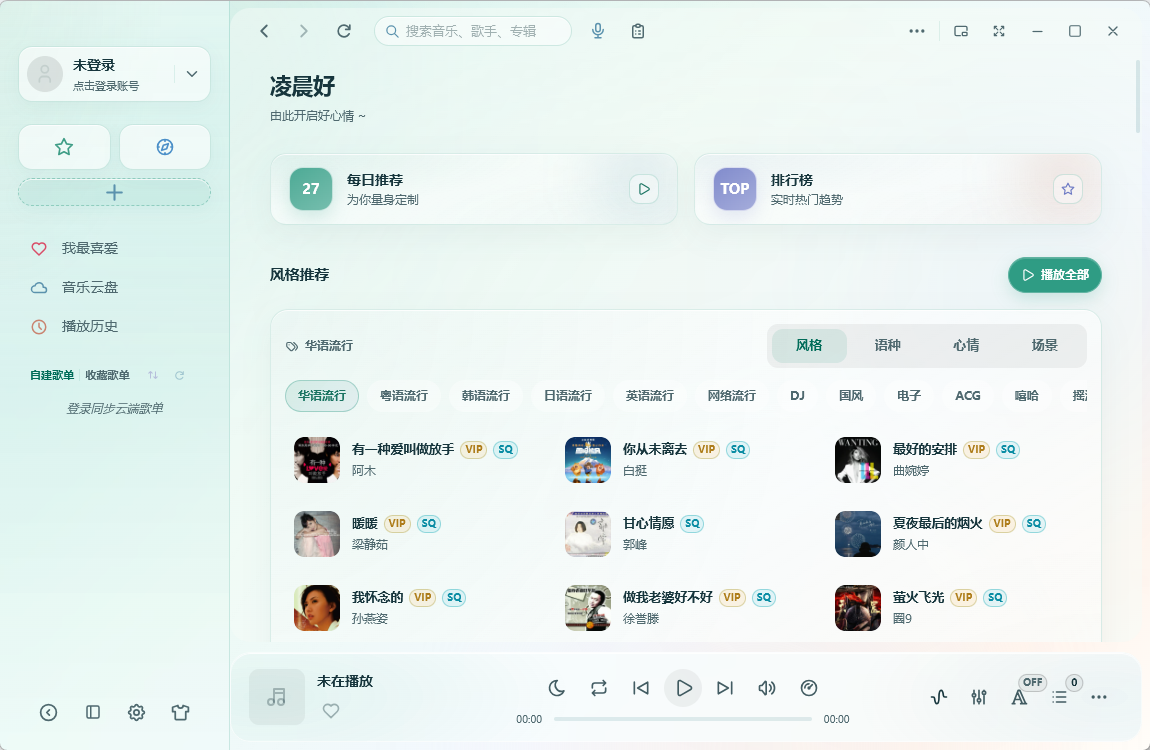
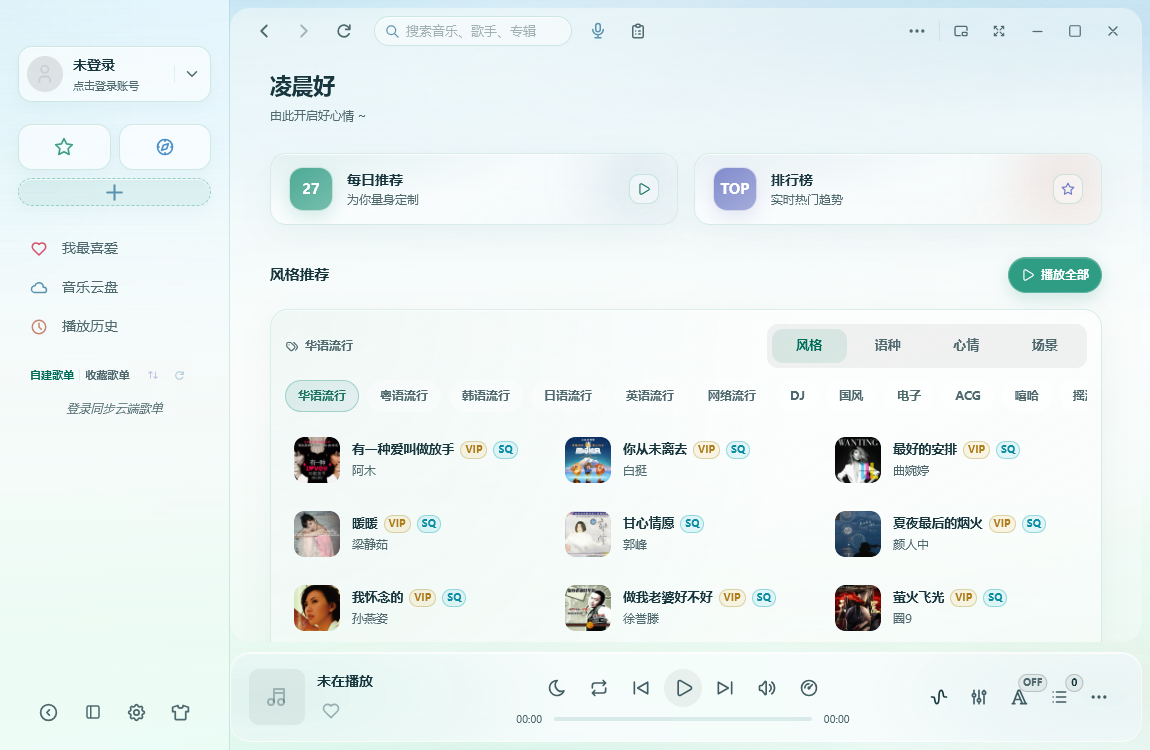
feat: 发布 1.6.0 呼吸感纵向色场背景

diff --git a/style.css b/style.css
@@ -154,35 +154,36 @@ html.ql-theme-active ::-webkit-scrollbar-thumb:active {
 /* ── 连续背景 ─────────────────────────────────────────────────────────── */
 
 html.ql-theme-active .theme-background-base {
-  background-color: #edf9f8 !important;
+  background-color: #f3faf7 !important;
   background-image:
-    radial-gradient(82% 82% at 2% 0%, rgba(116, 220, 215, 0.2) 0%, transparent 68%),
-    radial-gradient(68% 74% at 98% 4%, rgba(163, 208, 246, 0.22) 0%, transparent 70%),
-    linear-gradient(135deg, #e3f6f4 0%, #edf9f8 36%, #f3f8fd 70%, #fcfdff 100%) !important;
+    radial-gradient(ellipse 68% 78% at 3% 0%, rgba(120, 207, 195, 0.16) 0%, rgba(255, 255, 255, 0.18) 36%, transparent 74%),
+    radial-gradient(ellipse 64% 72% at 98% 3%, rgba(158, 191, 237, 0.17) 0%, rgba(255, 255, 255, 0.14) 40%, transparent 76%),
+    linear-gradient(128deg, #eaf8f2 0%, #f4fbf7 38%, #f2f7fc 72%, #fff7f1 100%) !important;
   background-repeat: no-repeat !important;
   background-size: cover !important;
 }
 
 html.ql-theme-active[data-ql-tint='mint'] .theme-background-base {
-  background-color: #edf8f2 !important;
+  background-color: #f3fbf7 !important;
   background-image:
-    radial-gradient(42% 54% at 4% 5%, rgba(91, 211, 172, 0.31) 0%, transparent 66%),
-    radial-gradient(38% 44% at 53% -6%, rgba(112, 177, 226, 0.21) 0%, transparent 68%),
-    radial-gradient(43% 48% at 101% 13%, rgba(245, 191, 158, 0.2) 0%, transparent 70%),
-    radial-gradient(42% 48% at 84% 82%, rgba(173, 157, 231, 0.16) 0%, transparent 70%),
-    radial-gradient(58% 60% at 19% 103%, rgba(118, 222, 195, 0.24) 0%, transparent 71%),
-    linear-gradient(134deg, #e4f7ee 0%, #f0fbf6 38%, #f4f9fd 73%, #fefbf7 100%) !important;
+    radial-gradient(ellipse 155% 32% at 16% -10%, rgba(85, 188, 236, 0.26) 0%, rgba(255, 255, 255, 0.21) 43%, transparent 82%),
+    radial-gradient(ellipse 118% 26% at 96% 4%, rgba(143, 180, 232, 0.19) 0%, rgba(255, 255, 255, 0.17) 45%, transparent 84%),
+    radial-gradient(ellipse 146% 34% at 33% 110%, rgba(96, 225, 183, 0.28) 0%, rgba(255, 255, 255, 0.16) 44%, transparent 84%),
+    radial-gradient(ellipse 96% 24% at 102% 92%, rgba(245, 188, 161, 0.11) 0%, rgba(255, 255, 255, 0.12) 42%, transparent 86%),
+    radial-gradient(ellipse 138% 32% at 55% 47%, rgba(255, 255, 255, 0.3) 0%, rgba(255, 255, 255, 0.11) 52%, transparent 88%),
+    linear-gradient(177deg, #c6e8f8 0%, #d9f0fb 12%, #edf8fc 30%, #fbfdfd 48%, #f4fcf8 64%, #e6f9ef 82%, #eafbf3 100%) !important;
 }
 
 html.ql-theme-active[data-ql-tint='sky'] .theme-background-base {
-  background-color: #edf4ff !important;
+  background-color: #f3f8ff !important;
   background-image:
-    radial-gradient(43% 55% at 2% 2%, rgba(92, 151, 242, 0.3) 0%, transparent 66%),
-    radial-gradient(39% 46% at 48% -7%, rgba(122, 211, 219, 0.2) 0%, transparent 68%),
-    radial-gradient(44% 49% at 102% 15%, rgba(218, 194, 242, 0.22) 0%, transparent 70%),
-    radial-gradient(42% 48% at 87% 86%, rgba(255, 199, 171, 0.18) 0%, transparent 70%),
-    radial-gradient(58% 60% at 23% 104%, rgba(134, 172, 244, 0.23) 0%, transparent 71%),
-    linear-gradient(134deg, #e1edff 0%, #edf5ff 39%, #f5f8ff 73%, #fffaf7 100%) !important;
+    radial-gradient(ellipse 155% 32% at 14% -10%, rgba(94, 156, 234, 0.28) 0%, rgba(255, 255, 255, 0.2) 43%, transparent 82%),
+    radial-gradient(ellipse 122% 27% at 95% 2%, rgba(126, 202, 238, 0.2) 0%, rgba(255, 255, 255, 0.17) 45%, transparent 84%),
+    radial-gradient(ellipse 146% 34% at 31% 110%, rgba(125, 158, 232, 0.22) 0%, rgba(255, 255, 255, 0.17) 44%, transparent 84%),
+    radial-gradient(ellipse 102% 25% at 103% 90%, rgba(199, 176, 236, 0.16) 0%, rgba(255, 255, 255, 0.12) 43%, transparent 86%),
+    radial-gradient(ellipse 96% 22% at 84% 105%, rgba(245, 185, 165, 0.1) 0%, rgba(255, 255, 255, 0.11) 42%, transparent 88%),
+    radial-gradient(ellipse 140% 32% at 56% 47%, rgba(255, 255, 255, 0.31) 0%, rgba(255, 255, 255, 0.11) 52%, transparent 88%),
+    linear-gradient(177deg, #c6e2fa 0%, #d9ecfc 12%, #eef7fe 30%, #fbfdff 48%, #f5f7ff 64%, #e9efff 82%, #edf2ff 100%) !important;
 }
 
 /* 快捷卡使用固定功能色：每张卡都有独立颜色，拖动换位后不变。 */
@@ -258,45 +259,45 @@ html.ql-theme-active .ql-halo {
   position: absolute;
   display: block;
   border-radius: 50%;
-  filter: blur(72px);
+  filter: blur(66px);
   opacity: var(--ql-glow-alpha);
+  animation: ql-drift-a 35s cubic-bezier(0.45, 0.05, 0.55, 0.95) infinite alternate;
   will-change: transform;
 }
 
 html.ql-theme-active .ql-halo-a {
-  top: -26%;
-  left: -8%;
-  width: 48vw;
-  height: 48vw;
-  background: radial-gradient(
-    circle,
-    color-mix(in srgb, var(--ql-accent) 24%, transparent) 0%,
-    transparent 70%
-  );
+  top: -24%;
+  left: -18%;
+  width: 136vw;
+  height: 42vh;
+  background:
+    radial-gradient(ellipse 56% 76% at 30% 56%, color-mix(in srgb, var(--ql-accent-2) 20%, transparent) 0%, rgba(255, 255, 255, 0.1) 44%, transparent 79%),
+    radial-gradient(ellipse 54% 70% at 73% 48%, color-mix(in srgb, var(--ql-accent) 14%, transparent) 0%, transparent 78%);
 }
 
 html.ql-theme-active .ql-halo-b {
-  right: -10%;
-  top: 6%;
-  width: 42vw;
-  height: 42vw;
-  background: radial-gradient(
-    circle,
-    color-mix(in srgb, var(--ql-accent-2) 19%, transparent) 0%,
-    transparent 72%
-  );
+  right: -20%;
+  top: -8%;
+  width: 104vw;
+  height: 34vh;
+  background:
+    radial-gradient(ellipse 58% 74% at 42% 54%, color-mix(in srgb, var(--ql-accent-4) 13%, transparent) 0%, rgba(255, 255, 255, 0.1) 44%, transparent 80%),
+    radial-gradient(ellipse 46% 68% at 72% 48%, color-mix(in srgb, var(--ql-accent-2) 12%, transparent) 0%, transparent 78%);
+  animation-duration: 41s;
+  animation-delay: -17s;
 }
 
 html.ql-theme-active .ql-halo-c {
-  left: 38%;
-  bottom: -34%;
-  width: 56vw;
-  height: 44vw;
-  background: radial-gradient(
-    circle,
-    color-mix(in srgb, var(--ql-accent-3) 13%, #ffffff) 0%,
-    transparent 72%
-  );
+  left: -2%;
+  bottom: -30%;
+  width: 148vw;
+  height: 44vh;
+  background:
+    radial-gradient(ellipse 54% 76% at 34% 54%, color-mix(in srgb, var(--ql-accent) 18%, transparent) 0%, rgba(255, 255, 255, 0.12) 46%, transparent 81%),
+    radial-gradient(ellipse 48% 70% at 74% 48%, color-mix(in srgb, var(--ql-accent-2) 10%, transparent) 0%, transparent 78%);
+  animation-duration: 47s;
+  animation-delay: -31s;
+  animation-direction: alternate-reverse;
 }
 
 html.ql-theme-active .ql-wash {
@@ -306,27 +307,32 @@ html.ql-theme-active .ql-wash {
   filter: blur(84px);
   opacity: calc(var(--ql-glow-alpha) * 0.5);
   transform: rotate(-16deg);
+  animation: ql-drift-b 39s cubic-bezier(0.4, 0.08, 0.6, 0.92) infinite alternate;
+  will-change: transform;
 }
 
 html.ql-theme-active .ql-wash-a {
-  top: 8%;
-  left: 23%;
-  width: 56vw;
-  height: 34vw;
+  top: 29%;
+  left: 5%;
+  width: 112vw;
+  height: 20vh;
   background:
-    radial-gradient(46% 60% at 32% 46%, color-mix(in srgb, var(--ql-accent-2) 22%, transparent), transparent 72%),
-    radial-gradient(48% 58% at 74% 54%, color-mix(in srgb, var(--ql-accent-3) 17%, transparent), transparent 70%);
+    radial-gradient(ellipse 50% 76% at 32% 48%, color-mix(in srgb, var(--ql-accent-2) 12%, transparent) 0%, rgba(255, 255, 255, 0.12) 47%, transparent 82%),
+    radial-gradient(ellipse 48% 72% at 74% 56%, color-mix(in srgb, var(--ql-accent-4) 8%, transparent) 0%, transparent 80%);
 }
 
 html.ql-theme-active .ql-wash-b {
-  right: 7%;
-  bottom: 2%;
-  width: 38vw;
-  height: 27vw;
+  right: -12%;
+  bottom: -4%;
+  width: 92vw;
+  height: 24vh;
   background:
-    radial-gradient(54% 66% at 30% 42%, color-mix(in srgb, var(--ql-accent) 18%, transparent), transparent 72%),
-    radial-gradient(42% 54% at 76% 63%, color-mix(in srgb, var(--ql-accent-3) 14%, transparent), transparent 70%);
-  transform: rotate(19deg);
+    radial-gradient(ellipse 54% 76% at 32% 48%, color-mix(in srgb, var(--ql-accent-3) 11%, transparent) 0%, rgba(255, 255, 255, 0.1) 46%, transparent 81%),
+    radial-gradient(ellipse 48% 70% at 76% 54%, color-mix(in srgb, var(--ql-accent) 11%, transparent) 0%, transparent 80%);
+  transform: rotate(2deg);
+  animation-duration: 32s;
+  animation-delay: -11s;
+  animation-direction: alternate-reverse;
 }
 
 html.ql-theme-active.dark .ql-wash {
@@ -338,9 +344,44 @@ html.ql-theme-active .ql-sheen {
   inset: 0;
   display: block;
   background:
-    linear-gradient(122deg, rgba(255, 255, 255, 0.42) 0%, rgba(255, 255, 255, 0.12) 24%, transparent 48%),
-    linear-gradient(180deg, rgba(255, 255, 255, 0.12), transparent 34%);
-  opacity: 0.62;
+    radial-gradient(ellipse 104% 28% at 46% 46%, rgba(255, 255, 255, 0.34), rgba(255, 255, 255, 0.1) 52%, transparent 88%),
+    radial-gradient(ellipse 78% 22% at 74% 63%, rgba(255, 255, 255, 0.16), rgba(255, 255, 255, 0.04) 48%, transparent 86%);
+  opacity: 0.76;
+  animation: ql-breathe 27s ease-in-out infinite alternate;
+  will-change: transform;
+}
+
+@keyframes ql-drift-a {
+  0% {
+    transform: translate3d(-1.8%, -1.2%, 0) scale(0.985) rotate(-1.4deg);
+  }
+  44% {
+    transform: translate3d(2.6%, 1.1%, 0) scale(1.035) rotate(0.8deg);
+  }
+  100% {
+    transform: translate3d(1.2%, 2.4%, 0) scale(1.012) rotate(1.8deg);
+  }
+}
+
+@keyframes ql-drift-b {
+  0% {
+    transform: translate3d(-2.2%, 1.2%, 0) scale(0.99) rotate(-1.2deg);
+  }
+  48% {
+    transform: translate3d(2%, -1.4%, 0) scale(1.035) rotate(0.6deg);
+  }
+  100% {
+    transform: translate3d(3.4%, 0.5%, 0) scale(1.012) rotate(1.6deg);
+  }
+}
+
+@keyframes ql-breathe {
+  from {
+    transform: scale(0.985);
+  }
+  to {
+    transform: scale(1.025);
+  }
 }
 
 html.ql-theme-active.dark .ql-halo {
@@ -456,7 +497,7 @@ html.ql-theme-active .sidebar {
   border: 0;
   border-right: 1px solid var(--ql-line);
   border-radius: 0;
-  background: rgba(249, 253, 255, 0.28) !important;
+  background: rgba(252, 254, 255, 0.34) !important;
   box-shadow: none;
   -webkit-backdrop-filter: blur(22px) saturate(128%);
   backdrop-filter: blur(22px) saturate(128%);
@@ -467,13 +508,13 @@ html.ql-theme-active .sidebar-decoration {
   background:
     linear-gradient(
       180deg,
-      rgba(255, 255, 255, 0.2),
-      color-mix(in srgb, var(--ql-accent) 6%, transparent) 52%,
-      rgba(255, 255, 255, 0.02)
+      rgba(255, 255, 255, 0.28),
+      color-mix(in srgb, var(--ql-accent) 3%, transparent) 52%,
+      rgba(255, 255, 255, 0.04)
     ),
     radial-gradient(
       100% 56% at 0% 0%,
-      color-mix(in srgb, var(--ql-accent) 10%, transparent),
+      color-mix(in srgb, var(--ql-accent) 5%, transparent),
       transparent 72%
     ) !important;
 }

diff --git a/index.js b/index.js
@@ -13,6 +13,8 @@ const DEFAULT_SETTINGS = {
   iconContent: true,
 };
 
+const layeredBackground = (...layers) => layers.join(',');
+
 const PRESETS = [
   {
     id: 'qinglan-mint',
@@ -27,12 +29,18 @@ const PRESETS = [
     darkAccent2: '#9bc9df',
     darkAccent3: '#efb4a2',
     darkAccent4: '#c1b8ef',
-    shell: '#e5f7ef',
-    sidebar: '#eefaf5',
-    main: '#f5fbf8',
+    shell: '#ebf8f1',
+    sidebar: '#f3fbf6',
+    main: '#f8fcf9',
     description: '更明显的薄荷绿空气感，清爽但不刺眼。',
-    gradient:
-      'linear-gradient(138deg, #dff4e9 0%, #d9f3ee 18%, #ecfaf4 42%, #f4f8ff 68%, #fff5ee 88%, #fffdf9 100%)',
+    gradient: layeredBackground(
+      'radial-gradient(ellipse 155% 32% at 16% -10%, rgba(85,188,236,0.26) 0%, rgba(255,255,255,0.21) 43%, transparent 82%)',
+      'radial-gradient(ellipse 118% 26% at 96% 4%, rgba(143,180,232,0.19) 0%, rgba(255,255,255,0.17) 45%, transparent 84%)',
+      'radial-gradient(ellipse 146% 34% at 33% 110%, rgba(96,225,183,0.28) 0%, rgba(255,255,255,0.16) 44%, transparent 84%)',
+      'radial-gradient(ellipse 96% 24% at 102% 92%, rgba(245,188,161,0.11) 0%, rgba(255,255,255,0.12) 42%, transparent 86%)',
+      'radial-gradient(ellipse 138% 32% at 55% 47%, rgba(255,255,255,0.3) 0%, rgba(255,255,255,0.11) 52%, transparent 88%)',
+      'linear-gradient(177deg, #c6e8f8 0%, #d9f0fb 12%, #edf8fc 30%, #fbfdfd 48%, #f4fcf8 64%, #e6f9ef 82%, #eafbf3 100%)',
+    ),
   },
   {
     id: 'qinglan-sky',
@@ -47,12 +55,19 @@ const PRESETS = [
     darkAccent2: '#a9bdf4',
     darkAccent3: '#efb3aa',
     darkAccent4: '#c8b7f0',
-    shell: '#e6f0fd',
-    sidebar: '#eff6fe',
-    main: '#f6faff',
+    shell: '#ecf3fe',
+    sidebar: '#f4f9ff',
+    main: '#f8fbff',
     description: '真正的天青蓝背景与蓝色强调色，清爽干净，不偏青绿。',
-    gradient:
-      'linear-gradient(142deg, #dfeaff 0%, #dcefff 20%, #eef7ff 43%, #f5f2ff 68%, #fff1e8 88%, #fffdfb 100%)',
+    gradient: layeredBackground(
+      'radial-gradient(ellipse 155% 32% at 14% -10%, rgba(94,156,234,0.28) 0%, rgba(255,255,255,0.20) 43%, transparent 82%)',
+      'radial-gradient(ellipse 122% 27% at 95% 2%, rgba(126,202,238,0.20) 0%, rgba(255,255,255,0.17) 45%, transparent 84%)',
+      'radial-gradient(ellipse 146% 34% at 31% 110%, rgba(125,158,232,0.22) 0%, rgba(255,255,255,0.17) 44%, transparent 84%)',
+      'radial-gradient(ellipse 102% 25% at 103% 90%, rgba(199,176,236,0.16) 0%, rgba(255,255,255,0.12) 43%, transparent 86%)',
+      'radial-gradient(ellipse 96% 22% at 84% 105%, rgba(245,185,165,0.10) 0%, rgba(255,255,255,0.11) 42%, transparent 88%)',
+      'radial-gradient(ellipse 140% 32% at 56% 47%, rgba(255,255,255,0.31) 0%, rgba(255,255,255,0.11) 52%, transparent 88%)',
+      'linear-gradient(177deg, #c6e2fa 0%, #d9ecfc 12%, #eef7fe 30%, #fbfdff 48%, #f5f7ff 64%, #e9efff 82%, #edf2ff 100%)',
+    ),
   },
 ];
 

diff --git a/README.md b/README.md
@@ -25,7 +25,7 @@
 
 ## 效果预览
 
-以下截图来自未登录的隔离环境，保留真实 EchoMusic 侧栏、搜索、快捷卡、筛选控件、歌曲列表和底部播放栏。
+以下截图来自未登录的隔离环境，保留真实 EchoMusic 侧栏、搜索、快捷卡、筛选控件、歌曲列表和底部播放栏。薄荷使用青蓝 → 奶白 → 薄荷绿的纵向色场，晴空使用天青 → 奶白 → 蓝紫的纵向色场。
 
 ![晴岚双主题真实界面对比](./screenshots/theme-comparison.png)
 
@@ -51,7 +51,7 @@ https://github.com/zhonglixun/echomusic-clear-glass-theme
 ## 功能
 
 - 两套完整浅色／深色主题，不修改 EchoMusic 本体。
-- 背景采用多色柔和渐变与环境光晕，避免大面积中性灰。
+- 背景采用大尺度纵向色场、宽幅柔雾与极慢呼吸动画，避免规则圆斑和大面积中性灰。
 - 侧栏、内容区、详情页、评论、播放栏、设置和浮层使用统一透光材质。
 - 图标点缀提供总开关及侧栏、快捷卡、标题栏、播放栏、内容区五个分区开关。
 - 快捷卡按稳定功能 key 固定配色，拖动排序后颜色不变。
@@ -89,7 +89,7 @@ screenshots/       真实界面效果图
 
 ## 视觉方向
 
-- 浅色青白渐变贯穿侧栏、主内容和播放栏，不使用大面积灰底。
+- 顶部冷色、中部奶白、底部回色的长跨度渐变贯穿侧栏、主内容和播放栏，不使用大面积灰底。
 - 面板用低透明度雾白玻璃、细青灰描边和极轻阴影分层。
 - 选中、悬停和标签使用薄荷青，而不是灰蓝色块。
 - 深色变体也保持青绿冷调，不用中性灰铺满界面。
@@ -273,6 +273,14 @@ screenshots/       真实界面效果图
 
 - 侧栏菜单和歌单的激活状态不再绘制背景。
 - 激活状态只保留主题强调文字色，hover 状态维持原样。
+
+## 1.6.0
+
+- 按真实播放页参考重做背景结构：取消多个规则圆斑，改为顶部冷色、中部奶白、底部回色的大尺度纵向色场。
+- 色团横向拉伸、纵向压缩并采用错位叠放；白色直接混入每层过渡，不再单独占据一块区域。
+- 加入 27–47 秒的低幅漂移与缩放，让背景保持呼吸感；系统开启“减少动态效果”时自动停用。
+- 薄荷重新收敛绿色占比，晴空保持蓝紫冷调，两套主题都回到有颜色但不全场泛色的中间强度。
+- 更新真实界面展示图与双主题对比图。
 
 ## 文件
 
